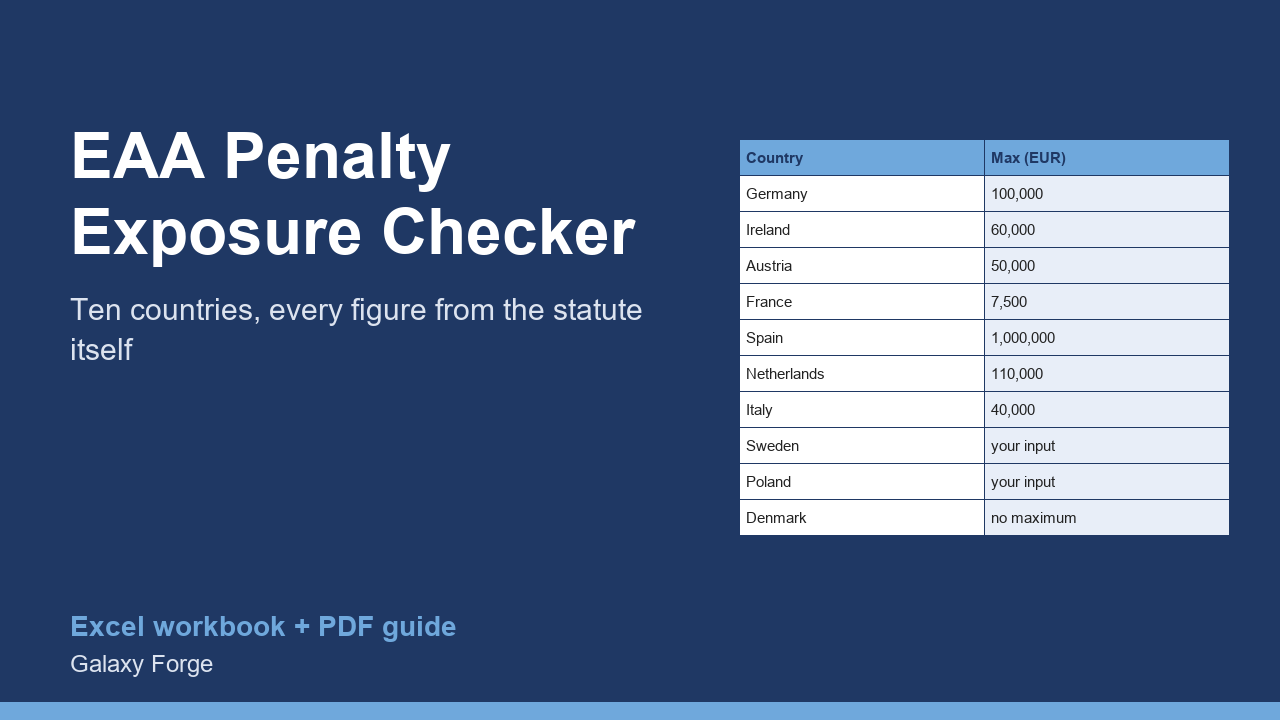
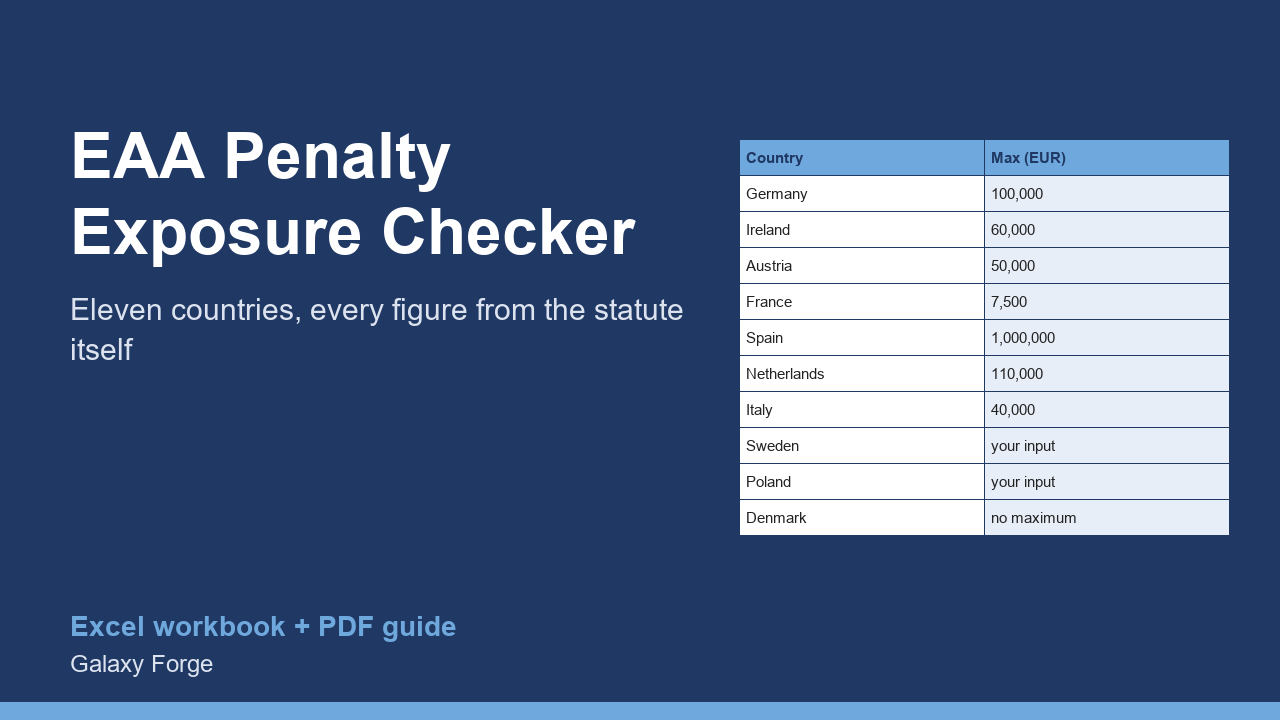
EAA register 2026-10-31.2: Luxembourg added from the official journal (eleven countries)
Loi du 8 mars 2023 (Memorial A n. 133, legilux.public.lu), read 2026-10-31:
art. 33 sets a criminal fine of EUR 251 to 500,000 for breaching the
requirements or the duties of manufacturers, importers, distributors and
service providers (arts 6, 9, 11-13, 15), EUR 500 to 1,000,000 for a repeat
offence; art. 32 an administrative fine of EUR 250 to 15,000 for obstructing
OSAPS or ignoring its decisions. Later amendments were not read (recorded).

Belgium and Finland were searched the same day and are recorded as not
included (split transposition / official text not readable). The release name
is 2026-10-31.2 because 2026-10-31 is already published; read dates stay
plain dates. Earlier releases unchanged (tested).

B17-001 rebuilt on this release: Luxembourg EUR 500,000, eleven countries;
25 recalc checks plus 48 on two other input sets pass; the publish dry run
still holds only on the founder's approval. Draft page, brief, arm records,
portfolio and founder actions say eleven.

Changed region(s): [[0.0625, 0.3972, 0.5312, 0.4583]]

diff --git a/drafts/services/eaa-penalties.html b/drafts/services/eaa-penalties.html
@@ -21,7 +21,7 @@ on 2026-10-29/30; laws change, so check the linked source before relying on any 
 <p>Since 28 June 2025 the EAA applies to e-commerce services offered to EU consumers. Each member state sets its own
 penalties, and the tables vendors publish disagree with each other, and sometimes with the law they cite.</p>
 
-<h2>Ten countries, each figure linked to its legal text</h2>
+<h2>Eleven countries, each figure linked to its legal text</h2>
 <table>
 <tr><th>Country</th><th>Provision</th><th>Maximum</th><th>Vendor table said</th></tr>
 <tr><td>Germany</td><td><a href="https://www.gesetze-im-internet.de/bfsg/__37.html">BFSG s. 37(2)</a></td><td>EUR 100,000 (EUR 10,000 for information duties)</td><td>EUR 500,000</td></tr>
@@ -34,6 +34,7 @@ penalties, and the tables vendors publish disagree with each other, and sometime
 <tr><td>Poland</td><td><a href="https://isap.sejm.gov.pl/isap.nsf/DocDetails.xsp?id=WDU20240000731">Dz. U. 2024 poz. 731</a></td><td>up to 10x the average monthly salary, capped at 10% of turnover</td><td>not checked</td></tr>
 <tr><td>Netherlands</td><td><a href="https://zoek.officielebekendmakingen.nl/stb-2024-87.html">Stb. 2024, 87</a></td><td>EUR 110,000 from 1 January 2026, the 5th fine category (<a href="https://zoek.officielebekendmakingen.nl/stb-2025-401.html">Stb. 2025, 401</a>)</td><td>EUR 103,000 (the 2025 value)</td></tr>
 <tr><td>Denmark</td><td><a href="https://www.retsinformation.dk/eli/lta/2022/801">Lov nr. 801/2022 s. 57</a></td><td>a fine with no statutory maximum; companies liable</td><td>not checked</td></tr>
+<tr><td>Luxembourg</td><td><a href="https://legilux.public.lu/eli/etat/leg/loi/2023/03/08/a133/jo">Loi du 8 mars 2023 art. 33</a></td><td>EUR 500,000 (EUR 1,000,000 for a repeat offence)</td><td>EUR 500,000</td></tr>
 </table>
 <p>Two vendor figures are contradicted by the statute they cite (Germany, France). Where those figures come from is
 not known; we did not guess.</p>

diff --git a/data_products/eaa_penalty_register.py b/data_products/eaa_penalty_register.py
@@ -11,8 +11,8 @@ register keeps each figure next to its source and a verification status:
   SECONDARY_UNVERIFIED    taken from a secondary source, not yet checked
                           against the statute (shown so the gap is visible)
 
-Scope (release 2026-10-31): ten countries, each tied to its own legal text
-(DE, IE, FR, NL, IT, SE, PL, AT, ES, DK). Earlier releases are kept unchanged.
+Scope (release 2026-10-31.2): eleven countries, each tied to its own legal text
+(DE, IE, FR, NL, IT, SE, PL, AT, ES, DK, LU). Earlier releases are kept unchanged.
 Only facts (amounts, section numbers, authority names) are recorded; no legal
 text is reproduced. Not legal advice.
 
@@ -28,10 +28,12 @@ ROOT = Path(__file__).resolve().parent.parent
 sys.path.insert(0, str(ROOT))
 from data_products import datacard  # noqa: E402
 
-VERSION = "2026-10-31"  # 2026-10-29: DE, IE; 2026-10-30: AT..PL; 2026-10-31: FR/NL amounts, DK
+VERSION = "2026-10-31.2"  # 2026-10-29: DE, IE; 2026-10-30: AT..PL; 2026-10-31: FR/NL amounts, DK; .2: LU
+RELEASE_DATE = "2026-10-31"  # a second release the same day keeps its own folder; dates stay plain dates
 RELEASE = ROOT / "data_products" / "releases" / "eaa-penalty-register" / VERSION
 READ_1029 = "2026-10-29"  # DE, IE and the secondary table were read on this date
 READ_1030 = "2026-10-30"  # AT, FR R.451-4, NL instrument, IT, SE, PL, ES
+READ_1031 = "2026-10-31"  # FR contravention amounts, NL 2026 category, DK, LU
 BFSG = "https://www.gesetze-im-internet.de/bfsg/__37.html"
 IE_SI = "https://www.irishstatutebook.ie/eli/2023/si/636/made/en/print"
 AT_BAFG = "https://ris.bka.gv.at/eli/bgbl/i/2023/76/P36/NOR40254396"
@@ -47,6 +49,7 @@ FR_CP13141 = "https://www.legifrance.gouv.fr/codes/section_lc/LEGITEXT0000060707
 NL_STB2025 = "https://zoek.officielebekendmakingen.nl/stb-2025-401.html"
 NL_SR23 = "https://wetten.overheid.nl/BWBR0001854/2026-01-01/0/BoekEerste/TiteldeelII/Artikel23"
 DK_LOV = "https://www.retsinformation.dk/eli/lta/2022/801"
+LU_LOI = "https://legilux.public.lu/eli/etat/leg/loi/2023/03/08/a133/jo"
 ES_L11 = "https://www.boe.es/buscar/act.php?id=BOE-A-2023-11022"
 ES_RDL1 = "https://www.boe.es/buscar/act.php?id=BOE-A-2013-12632"
 DEQUE = "https://www.deque.com/european-accessibility-act-eaa-compliance/country-compliance-data/"
@@ -71,10 +74,10 @@ ROWS = [
      "fine of a 5th-class contravention (next two rows for the amount); whether service breaches "
      "fall under this article is UNKNOWN; secondary tables give EUR 300,000 and EUR 50,000-75,000"),
     ("FR", "Code penal", "art. 131-13 5", "amount of a 5th-class contravention (natural persons)", "1500",
-     "none", "", "VERIFIED_OFFICIAL_TEXT", FR_CP13113, VERSION,
+     "none", "", "VERIFIED_OFFICIAL_TEXT", FR_CP13113, READ_1031,
      "up to EUR 3,000 for a repeat offence where the regulation provides for it (not established for R.451-4)"),
     ("FR", "Code penal", "art. 131-41", "legal persons: five times the natural-person maximum for a contravention",
-     "7500", "none", "", "VERIFIED_OFFICIAL_TEXT", FR_CP13141, VERSION,
+     "7500", "none", "", "VERIFIED_OFFICIAL_TEXT", FR_CP13141, READ_1031,
      "EUR 1,500 x 5; EUR 15,000 only where a repeat-offence increase applies"),
     ("NL", "Implementatiewet toegankelijkheidsvoorschriften (Stb. 2024, 87)", "Warenwet (products); Whc art. 8a "
      "(services)", "accessibility breaches by product makers/sellers and by service providers", "",
@@ -82,7 +85,7 @@ ROWS = [
      READ_1030, "maximum is the 5th fine category of Criminal Code art. 23 (next row for its 2026 amount)"),
     ("NL", "Wetboek van Strafrecht art. 23(4), amended by Stb. 2025, 401", "5th fine category",
      "euro value of the 5th category from 1 January 2026", "110000", "none (administrative fine)", "",
-     "VERIFIED_OFFICIAL_TEXT", NL_STB2025, VERSION,
+     "VERIFIED_OFFICIAL_TEXT", NL_STB2025, READ_1031,
      "EUR 103,000 until 31 December 2025 (the secondary tables' figure); art. 23(7), next-higher category for legal "
      "persons, is a criminal-law rule and is not applied to this administrative fine; read in " + NL_SR23),
     ("IT", "D.Lgs. 82/2022", "art. 24(1)", "breach of the accessibility requirements and economic operators' duties "
@@ -125,9 +128,16 @@ ROWS = [
     ("DK", "Lov nr. 801 af 7. juni 2022 (tilgaengelighedskrav for produkter og tjenester)", "s. 57",
      "breaches of the accessibility requirements and operators' duties (s. 57(1) Nos 1-7)", "",
      "none stated (fine only)", "Sikkerhedsstyrelsen and other control authorities", "VERIFIED_OFFICIAL_TEXT",
-     DK_LOV, VERSION, "fine (boede) with no statutory maximum: the court sets the amount; companies are liable under "
+     DK_LOV, READ_1031, "fine (boede) with no statutory maximum: the court sets the amount; companies are liable under "
      "Straffeloven chapter 5 (s. 57(3)); read in the 2022 text as published, a 2024 amendment (Lov nr. 637) was not "
      "read"),
+    ("LU", "Loi du 8 mars 2023 (Memorial A n. 133)", "art. 33", "breaches of the accessibility requirements (art. 6) "
+     "and of the duties of manufacturers, importers, distributors and service providers (arts 9, 11-13, 15)",
+     "500000", "none (criminal fine)", "OSAPS (Office de la surveillance de l'accessibilite des produits et services)",
+     "VERIFIED_OFFICIAL_TEXT", LU_LOI, READ_1031,
+     "EUR 251 to 500,000, proportionate to the extent of the breach; repeat offence EUR 500 to 1,000,000 (art. 33(2)); "
+     "art. 32: administrative fine EUR 250 to 15,000 for obstructing supervision or ignoring OSAPS decisions; read in "
+     "the law as published, later amendments ('loi modifiee') not read"),
 ]
 
 
@@ -169,18 +179,20 @@ def build():
              "access_method": "PUBLIC_WEB_PAGE", "licence": facts},
             {"name": "Dz. U. 2024 poz. 731 (isap.sejm.gov.pl)", "origin": PL_DU, "accessed_on": READ_1030,
              "access_method": "PUBLIC_WEB_PAGE", "licence": facts},
-            {"name": "Code penal arts 131-13 and 131-41 (legifrance.gouv.fr)", "origin": FR_CP13113, "accessed_on": VERSION,
+            {"name": "Code penal arts 131-13 and 131-41 (legifrance.gouv.fr)", "origin": FR_CP13113, "accessed_on": READ_1031,
              "access_method": "PUBLIC_WEB_PAGE", "licence": facts},
-            {"name": "Staatsblad 2025, 401 and Wetboek van Strafrecht art. 23", "origin": NL_STB2025, "accessed_on": VERSION,
+            {"name": "Staatsblad 2025, 401 and Wetboek van Strafrecht art. 23", "origin": NL_STB2025, "accessed_on": READ_1031,
              "access_method": "PUBLIC_WEB_PAGE", "licence": facts},
-            {"name": "Lov nr. 801 af 7. juni 2022 (retsinformation.dk)", "origin": DK_LOV, "accessed_on": VERSION,
+            {"name": "Lov nr. 801 af 7. juni 2022 (retsinformation.dk)", "origin": DK_LOV, "accessed_on": READ_1031,
+             "access_method": "PUBLIC_WEB_PAGE", "licence": facts},
+            {"name": "Loi du 8 mars 2023 (legilux.public.lu, Memorial A n. 133)", "origin": LU_LOI, "accessed_on": READ_1031,
              "access_method": "PUBLIC_WEB_PAGE", "licence": facts},
             {"name": "Deque EAA country-by-country table (secondary)", "origin": DEQUE, "accessed_on": READ_1029,
              "access_method": "PUBLIC_WEB_PAGE", "licence": facts},
         ],
         "attribution": "Secondary figures: Deque Systems, EAA country-by-country compliance data (read 2026-10-29).",
         "collection_method": "Read the German and Irish legal texts on 2026-10-29 and the Austrian on 2026-10-30, "
-                             "recorded the penalty provisions; and the French and Spanish on 2026-10-30; the Dutch, Italian, Swedish and Polish on 2026-10-30; the French contravention amounts, the 2026 Dutch fine category and Denmark on 2026-10-31. SE and PL amounts are not in euro; DK sets no maximum.",
+                             "recorded the penalty provisions; and the French and Spanish on 2026-10-30; the Dutch, Italian, Swedish and Polish on 2026-10-30; the French contravention amounts, the 2026 Dutch fine category, Denmark and Luxembourg on 2026-10-31. SE and PL amounts are not in euro; DK sets no maximum.",
         "processing_steps": ["record amounts and section numbers", "tag verification status", "note conflicts"],
         "columns": [{"name": c, "type": "string", "description": c.replace("_", " ")} for c in COLUMNS],
         "files": [{"path": str(path.relative_to(ROOT)).replace("\\", "/"), "sha256": datacard.sha256_file(path),
@@ -188,16 +200,16 @@ def build():
         "personal_data": {"contains": False},
         "licence_out": "Galaxy Forge compilation of facts",
         "refresh_days": 90,
-        "last_refreshed": VERSION,
+        "last_refreshed": RELEASE_DATE,
         "known_limitations": [
-            "All ten countries are tied to the legal text; open points: FR service scope of R.451-4, DK 2024 amendment not read, PL article number not read.",
-            "Finland was searched on 2026-10-31 but its services sanctions (Act 306/2019) could not be read; not included.",
+            "All eleven countries are tied to the legal text; open points: LU later amendments not read, FR service scope of R.451-4, DK 2024 amendment not read, PL article number not read.",
+            "Finland was searched on 2026-10-31 but its services sanctions (Act 306/2019) could not be read; not included. Belgium was searched the same day: transposition is split across authorities and the final text was not found; not included.",
             "The source of the EUR 500,000 German figure in secondary tables is UNKNOWN.",
             "Maximum statutory penalties say nothing about enforcement practice.",
         ],
     }
     (RELEASE / "datacard.json").write_text(json.dumps(card, indent=1, ensure_ascii=False), encoding="utf-8")
-    result = datacard.validate_card(card, ROOT, today=date.fromisoformat(VERSION))
+    result = datacard.validate_card(card, ROOT, today=date.fromisoformat(RELEASE_DATE))
     (RELEASE / "validation.json").write_text(json.dumps(result, indent=1, ensure_ascii=False, default=str), encoding="utf-8")
     return result
 

diff --git a/tests/test_phase3_demonstrations.py b/tests/test_phase3_demonstrations.py
@@ -173,8 +173,9 @@ class AccessibilityCheck(unittest.TestCase):
 
 
 class EaaPenaltyRegister(unittest.TestCase):
-    REL = ROOT / "data_products" / "releases" / "eaa-penalty-register" / "2026-10-31"
-    OLDER = [ROOT / "data_products" / "releases" / "eaa-penalty-register" / v for v in ("2026-10-29", "2026-10-30")]
+    REL = ROOT / "data_products" / "releases" / "eaa-penalty-register" / "2026-10-31.2"
+    OLDER = [ROOT / "data_products" / "releases" / "eaa-penalty-register" / v
+             for v in ("2026-10-29", "2026-10-30", "2026-10-31")]
 
     def test_every_release_file_matches_the_hash_its_card_pins(self):
         from data_products import datacard
@@ -203,7 +204,7 @@ class EaaPenaltyRegister(unittest.TestCase):
             rows = list(csv.DictReader(f))
         self.assertTrue(all(r["status"] in ("VERIFIED_OFFICIAL_TEXT", "SECONDARY_UNVERIFIED") for r in rows))
         verified = {r["country"] for r in rows if r["status"] == "VERIFIED_OFFICIAL_TEXT"}
-        self.assertEqual(verified, {"DE", "IE", "AT", "FR", "ES", "NL", "IT", "SE", "PL", "DK"})
+        self.assertEqual(verified, {"DE", "IE", "AT", "FR", "ES", "NL", "IT", "SE", "PL", "DK", "LU"})
         for r in rows:
             if r["status"] == "VERIFIED_OFFICIAL_TEXT":
                 self.assertTrue(r["source_url"].startswith(("https://www.gesetze-im-internet.de/",
@@ -215,7 +216,8 @@ class EaaPenaltyRegister(unittest.TestCase):
                                                             "https://www.gazzettaufficiale.it/",
                                                             "https://www.riksdagen.se/",
                                                             "https://isap.sejm.gov.pl/",
-                                                            "https://www.retsinformation.dk/")))
+                                                            "https://www.retsinformation.dk/",
+                                                            "https://legilux.public.lu/")))
         de = [r for r in rows if r["country"] == "DE"]
         self.assertEqual(sorted(r["max_fine_eur"] for r in de), ["10000", "100000"])
         at = sorted(int(r["max_fine_eur"]) for r in rows if r["country"] == "AT")
@@ -227,6 +229,9 @@ class EaaPenaltyRegister(unittest.TestCase):
         dk = [r for r in rows if r["country"] == "DK"]
         self.assertEqual((len(dk), dk[0]["max_fine_eur"]), (1, ""))
         self.assertIn("no statutory maximum", dk[0]["note"])
+        lu = [r for r in rows if r["country"] == "LU"]
+        self.assertEqual([r["max_fine_eur"] for r in lu], ["500000"])
+        self.assertIn("1,000,000", lu[0]["note"])
 
 
 class OfferDrafts(unittest.TestCase):

diff --git a/arm_portfolio.py b/arm_portfolio.py
@@ -121,7 +121,7 @@ PROFILES: Dict[str, Dict[str, Any]] = {
         "revenue_model": "paid briefs or dataset access (hypothesis)",
         "distribution": "none yet",
         "stage": "BUILD",
-        "stage_evidence": "two validated sample datasets with briefs (USPTO trademark fees; EAA penalty register, 10 countries tied to the statutes, two vendor figures contradicted); not offered",
+        "stage_evidence": "two validated sample datasets with briefs (USPTO trademark fees; EAA penalty register, 11 countries tied to the statutes, two vendor figures contradicted); not offered",
         "demonstration": "services/research/eaa_penalty_register_brief_2026-10-29.md",
         "kpis": [
             {"kpi": "offers defined", "source": "none", "available": "UNKNOWN"},
@@ -249,7 +249,7 @@ EXPERIMENTS = {
     "micro_b2b": {"id": "D2/D5", "state": "BLOCKED: offer page awaits founder approval (e-mail route ready)",
                   "what": "free feed preflight or catalogue clean-up for the first sellers who send a file"},
     "research_data_services": {"id": "D3/D7", "state": "BLOCKED: offer page awaits founder approval (e-mail route ready)",
-                               "what": "free EAA register sample (10 countries); count requests for the full register"},
+                               "what": "free EAA register sample (11 countries); count requests for the full register"},
     "affiliate_intelligence": {"id": None, "state": "NONE", "what": "on hold until a payout route is verified"},
     "content_distribution": {"id": None, "state": "BLOCKED: no visit measurement",
                              "what": "Telegraph counters read daily (platform counter, includes bots)"},

diff --git a/business_arms.py b/business_arms.py
@@ -72,7 +72,7 @@ ARMS: Dict[str, Dict[str, Any]] = {
         "acceptance": ["repeatable research output", "a written offer", "a paying engagement"],
         "commercial_path": ["services/research/uspto_trademark_fees_brief_2026-10-29.md",
                             "services/research/eaa_penalty_register_brief_2026-10-29.md"],
-        "gap": "two validated sample datasets with briefs (USPTO fees; EAA penalties, ten countries tied to the statutes); a draft page exists; not published, no buyer",
+        "gap": "two validated sample datasets with briefs (USPTO fees; EAA penalties, eleven countries tied to the statutes); a draft page exists; not published, no buyer",
         "blocker": "research infrastructure exists but no customer-facing offer or engagement",
     },
     "affiliate_intelligence": {

diff --git a/services/research/eaa_penalty_register_brief_2026-10-29.md b/services/research/eaa_penalty_register_brief_2026-10-29.md
@@ -1,7 +1,7 @@
 # Research sample: European Accessibility Act penalties: what the statutes say vs. what is quoted
 
 Date: 2026-10-29. Status: SAMPLE (not offered, not legal advice).
-Dataset: `data_products/releases/eaa-penalty-register/2026-10-31/` (data card PASS; the 2026-10-29 and 2026-10-30 releases are kept unchanged).
+Dataset: `data_products/releases/eaa-penalty-register/2026-10-31.2/` (data card PASS; earlier releases are kept unchanged).
 
 ## Question
 An online seller serving EU consumers asks: "What can a fine be under the EAA?"
@@ -53,8 +53,13 @@ An online seller serving EU consumers asks: "What can a fine be under the EAA?"
 - **Denmark (VERIFIED 2026-10-31):**
   - Lov nr. 801 of 7 June 2022 s. 57 punishes breaches of the requirements and duties with a fine and states no maximum; the court sets the amount. Companies are liable under Straffeloven chapter 5 (s. 57(3)).
   - Read in the act as published; a 2024 amendment (Lov nr. 637) was not read. Source: [retsinformation.dk](https://www.retsinformation.dk/eli/lta/2022/801).
+- **Luxembourg (VERIFIED 2026-10-31):**
+  - Loi du 8 mars 2023 art. 33: a criminal fine of EUR 251 to 500,000 for breaching the requirements or the duties of manufacturers, importers, distributors and service providers (arts 6, 9, 11-13, 15); EUR 500 to 1,000,000 for a repeat offence.
+  - Art. 32: an administrative fine of EUR 250 to 15,000 for obstructing supervision or ignoring the authority's decisions. Authority: OSAPS.
+  - Read in the law as published (Memorial A n. 133, 15 March 2023); later amendments were not read. Source: [legilux.public.lu](https://legilux.public.lu/eli/etat/leg/loi/2023/03/08/a133/jo).
+- **Belgium (not included):** the transposition is split across federal and regional authorities; the final text with its sanctions was not found on 2026-10-31.
 - **Finland (not included):** the services sanctions sit in Act 306/2019, whose text could not be read on 2026-10-31.
-- **Coverage:** all ten countries in this sample are tied to their own legal text. Open points: France's service scope, Denmark's 2024 amendment, Poland's article number.
+- **Coverage:** all eleven countries in this sample are tied to their own legal text. Open points: Luxembourg's later amendments, France's service scope, Denmark's 2024 amendment, Poland's article number.
 
 ## Why this could be a product
 - **Who:** sellers and their advisers get conflicting numbers from vendors who also sell remediation. A neutral, statute-cited register with a verification status per figure does not appear to exist (INFERRED from the searches; not exhaustive).

diff --git a/docs/factory/COMPANY_PORTFOLIO.md b/docs/factory/COMPANY_PORTFOLIO.md
@@ -11,10 +11,10 @@ dashboard disagree, the dashboard is current. Evidence classes: OBSERVED, DERIVE
 
 | Directive arm | Doctrine arm | Implemented today |
 |---|---|---|
-| A Digital products | `digital_products` | 116 products in the registry, 109 live on Gumroad, 4 built and QA-passed awaiting publication (B16-008..010, and B17-001, a ten-country EAA penalty workbook built from the research arm's register); batch pipeline with independent formula checks; per-product publication gate with expiring approvals; delivery audit; listing-repair script (dry run passes against the live listings) |
+| A Digital products | `digital_products` | 116 products in the registry, 109 live on Gumroad, 4 built and QA-passed awaiting publication (B16-008..010, and B17-001, an eleven-country EAA penalty workbook built from the research arm's register); batch pipeline with independent formula checks; per-product publication gate with expiring approvals; delivery audit; listing-repair script (dry run passes against the live listings) |
 | B Productized services | `productized_ai_services` | accessibility quick-check (`services/accessibility_check/`): fixed WCAG 2.2 rules, files or named URLs, never claims compliance; our own 118 pages: 0 errors, 22 warnings; repair script for our site prepared |
 | C Micro-B2B | `micro_b2b` | catalogue clean-up engine (CSV and XLSX, ambiguous dates and mixed currencies flagged); Merchant Center feed preflight (CSV, TSV, RSS/Atom XML; rules cited from Google's spec; hostile XML refused) |
-| D Research | `research_data_services` | EAA penalty register (10 countries, each figure tied to its legal text; two vendor figures contradicted); USPTO trademark fee table, checked daily against the official schedule |
+| D Research | `research_data_services` | EAA penalty register (11 countries, each figure tied to its legal text; two vendor figures contradicted); USPTO trademark fee table, checked daily against the official schedule |
 | E AI operations | `ai_operations` | n8n automation audit from the customer's read-only API exports (payloads dropped); priced against observed comparable offers |
 | F Affiliate intelligence | `affiliate_intelligence` | click tracking with classification, commission ledger, comparison pages (held) |
 | G Data products | `research_data_services` (shared) | the two datasets above, data cards PASS |

diff --git a/docs/factory/FOUNDER_ACTIONS.md b/docs/factory/FOUNDER_ACTIONS.md
@@ -39,9 +39,9 @@ switch the loop only reports approved products as ready.
 
 ### New: B17-001, EAA Penalty Exposure Checker ($19, built 2026-10-31)
 
-A workbook giving the statutory maximum EAA penalty in ten EU countries for the
+A workbook giving the statutory maximum EAA penalty in eleven EU countries for the
 buyer's turnover and size, each figure tied to its article and official source
-(register release 2026-10-31). QA: 23 recalc checks plus 44 on two other input
+(register release 2026-10-31.2). QA: 25 recalc checks plus 48 on two other input
 sets, guide, cover, listing all PASS; the dry run holds only on your approval.
 To approve, then publish:
 
